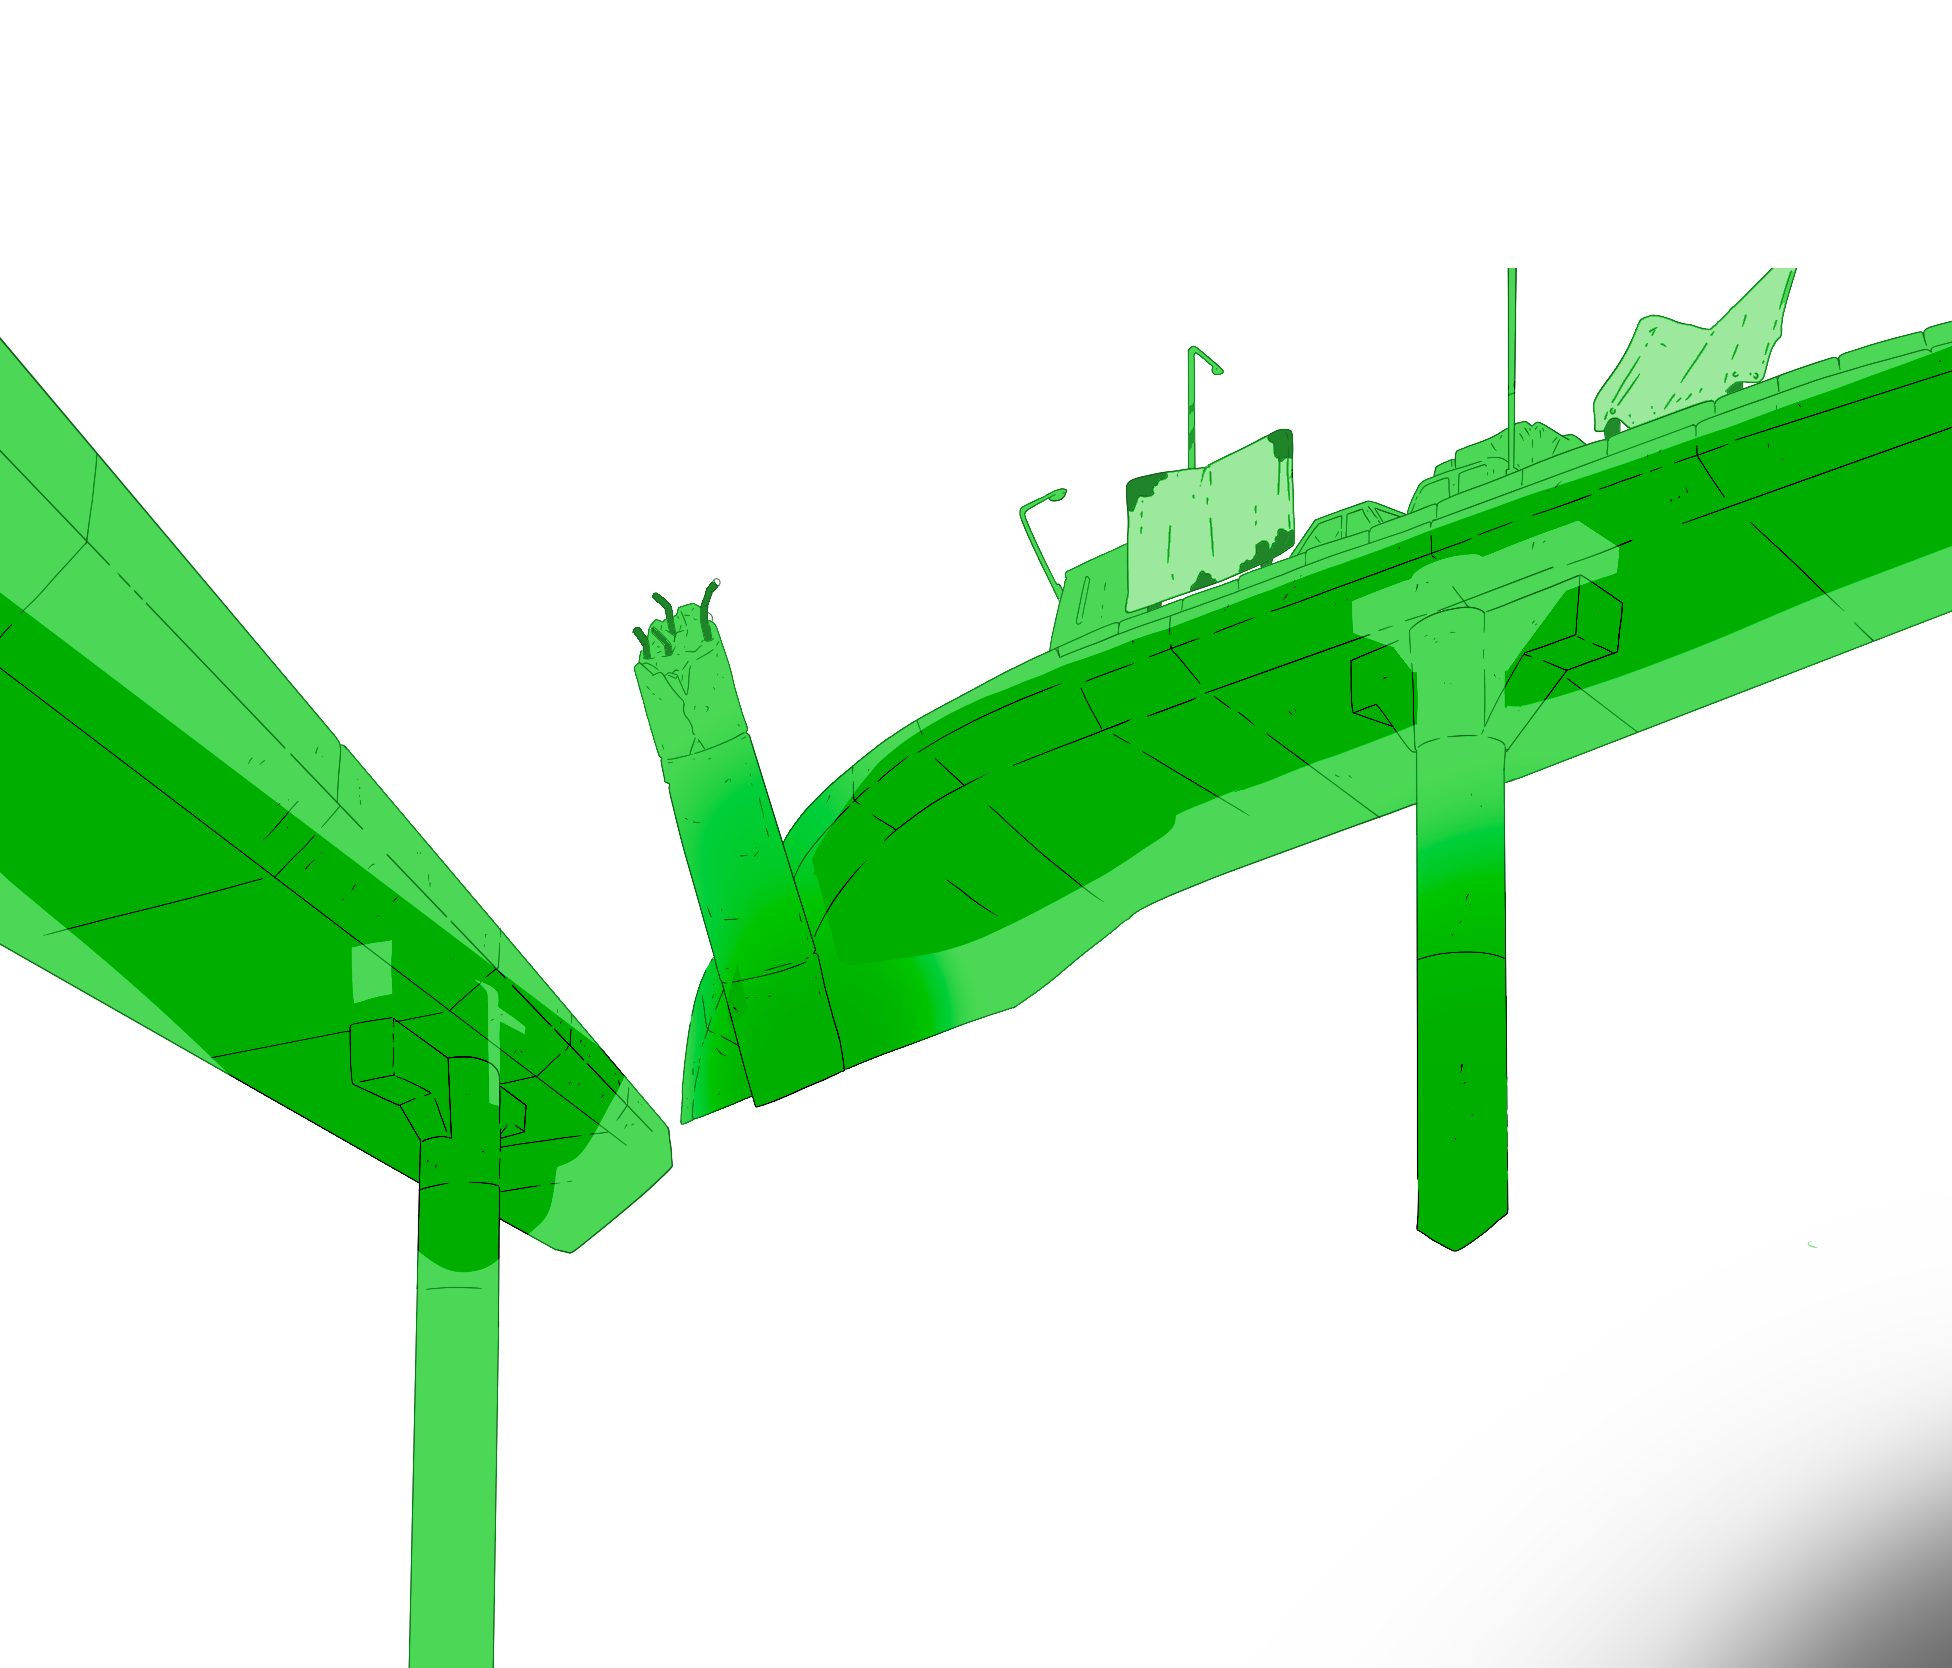
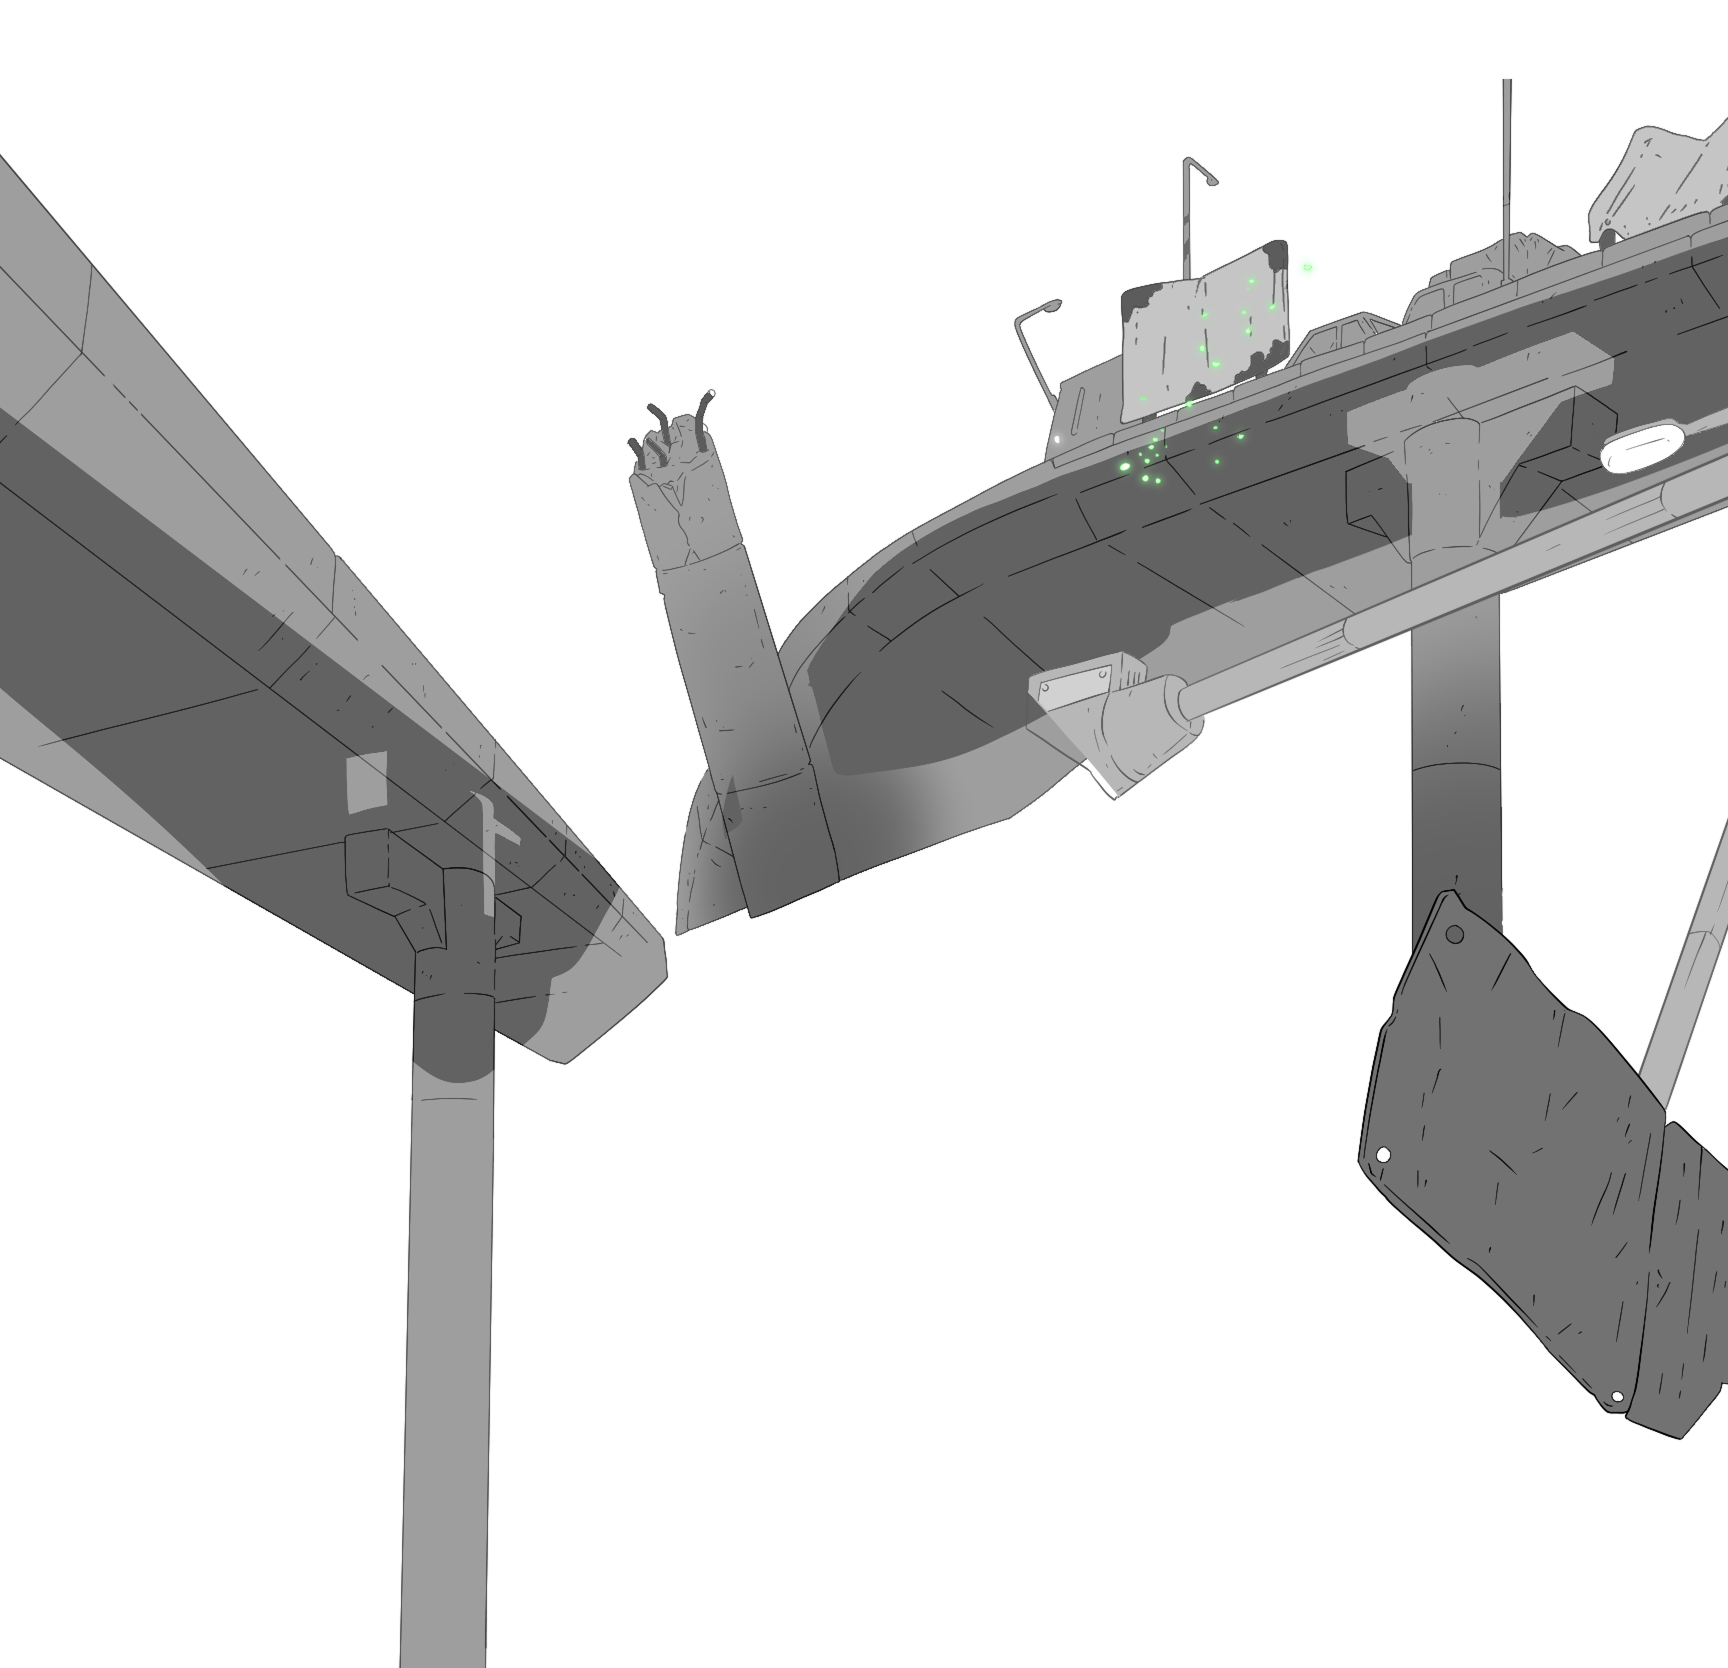
Update hero background/foreground images

diff --git a/styles.css b/styles.css
@@ -117,16 +117,16 @@
     .hero-container { position:relative; width:100%; height:1020px; overflow:visible; }
 
     .hero-bg-layer {
-      position:absolute; top:300px; left:-5px; width:1733px; height:796px;
+      position:absolute; top:422px; left:-5px; width:1952px; height:1668px;
       overflow:hidden; z-index:0; will-change:transform;
     }
-    .hero-bg-layer img { position:absolute; top:0; left:0; width:100%; height:186%; }
+    .hero-bg-layer img { position:absolute; top:0; left:0; width:100%; height:100%; }
 
     .hero-fg-layer {
-      position:absolute; top:-48px; left:574px; width:1396px; height:1165px;
+      position:absolute; top:186px; left:651px; width:1248px; height:1066px;
       z-index:1; will-change:transform;
     }
-    .hero-fg-layer img { width:100%; height:102.39%; transform:rotate(180deg) scaleY(-1); }
+    .hero-fg-layer img { width:100%; height:100%; }
 
     .hero-text {
       position:absolute; top:186px; left:-10px; width:969px;
